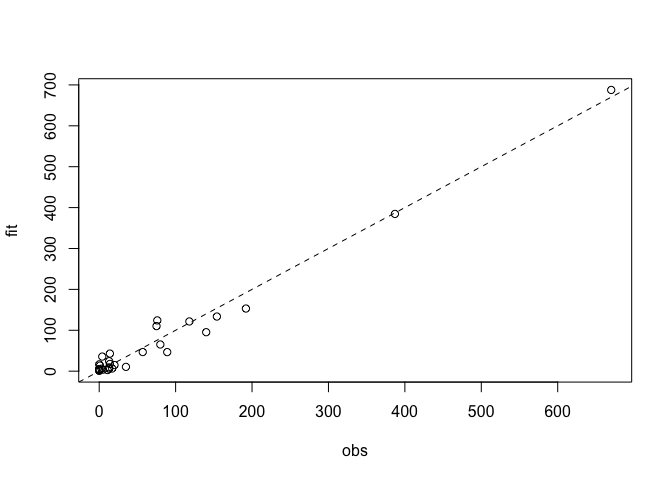
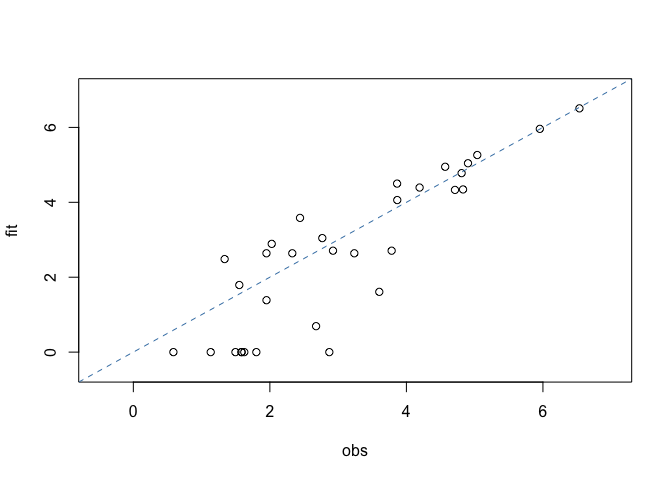
titanic

diff --git a/Rmd/moltenNMF.md b/Rmd/moltenNMF.md
@@ -54,8 +54,8 @@ Check goodness-of-fit:
 ``` r
 V <- out2$shape/out2$rate
 yhat <- product_m(~Survived+Class+Sex+Age, data=Titanicdf,V)
-plot(Titanicdf$Freq, yhat, ylab = "fit", xlab = "obs")
-abline(0, 1, lty=2)
+plot(log1p(yhat), log1p(Titanicdf$Freq), ylab = "fit", xlab = "obs", xlim = c(-0.5,7), ylim=c(-0.5,7))
+abline(0, 1, lty=2, col="steelblue")
 ```
 
 ![](moltenNMF_files/figure-gfm/titanic3-1.png)<!-- -->
@@ -81,6 +81,12 @@ p2 <- ggplot(Vdf, aes(y=variable, x=value, fill=component))+
   scale_x_continuous(labels=scales::percent)+
   theme_classic(16)+theme(strip.text.y = element_text(angle=0))
 
+p3 <- ggplot(Vdf, aes(y=variable, x=component, fill=log(value)))+
+  geom_tile()+
+  facet_grid(facet_dummy~.,scales="free_y",space = "free")+
+  scale_fill_gradient2(low="royalblue", high="orange", mid="white", midpoint=0)+
+  theme_classic(16)+theme(strip.text.y = element_text(angle=0))
+
 print(p1)
 ```
 
@@ -91,6 +97,12 @@ print(p2)
 ```
 
 ![](moltenNMF_files/figure-gfm/titanic4-2.png)<!-- -->
+
+``` r
+print(p3)
+```
+
+![](moltenNMF_files/figure-gfm/titanic4-3.png)<!-- -->
 
 These plot show co-occurrence relationships between variables. You can
 see that many of survivors of Titanic are women, because of
